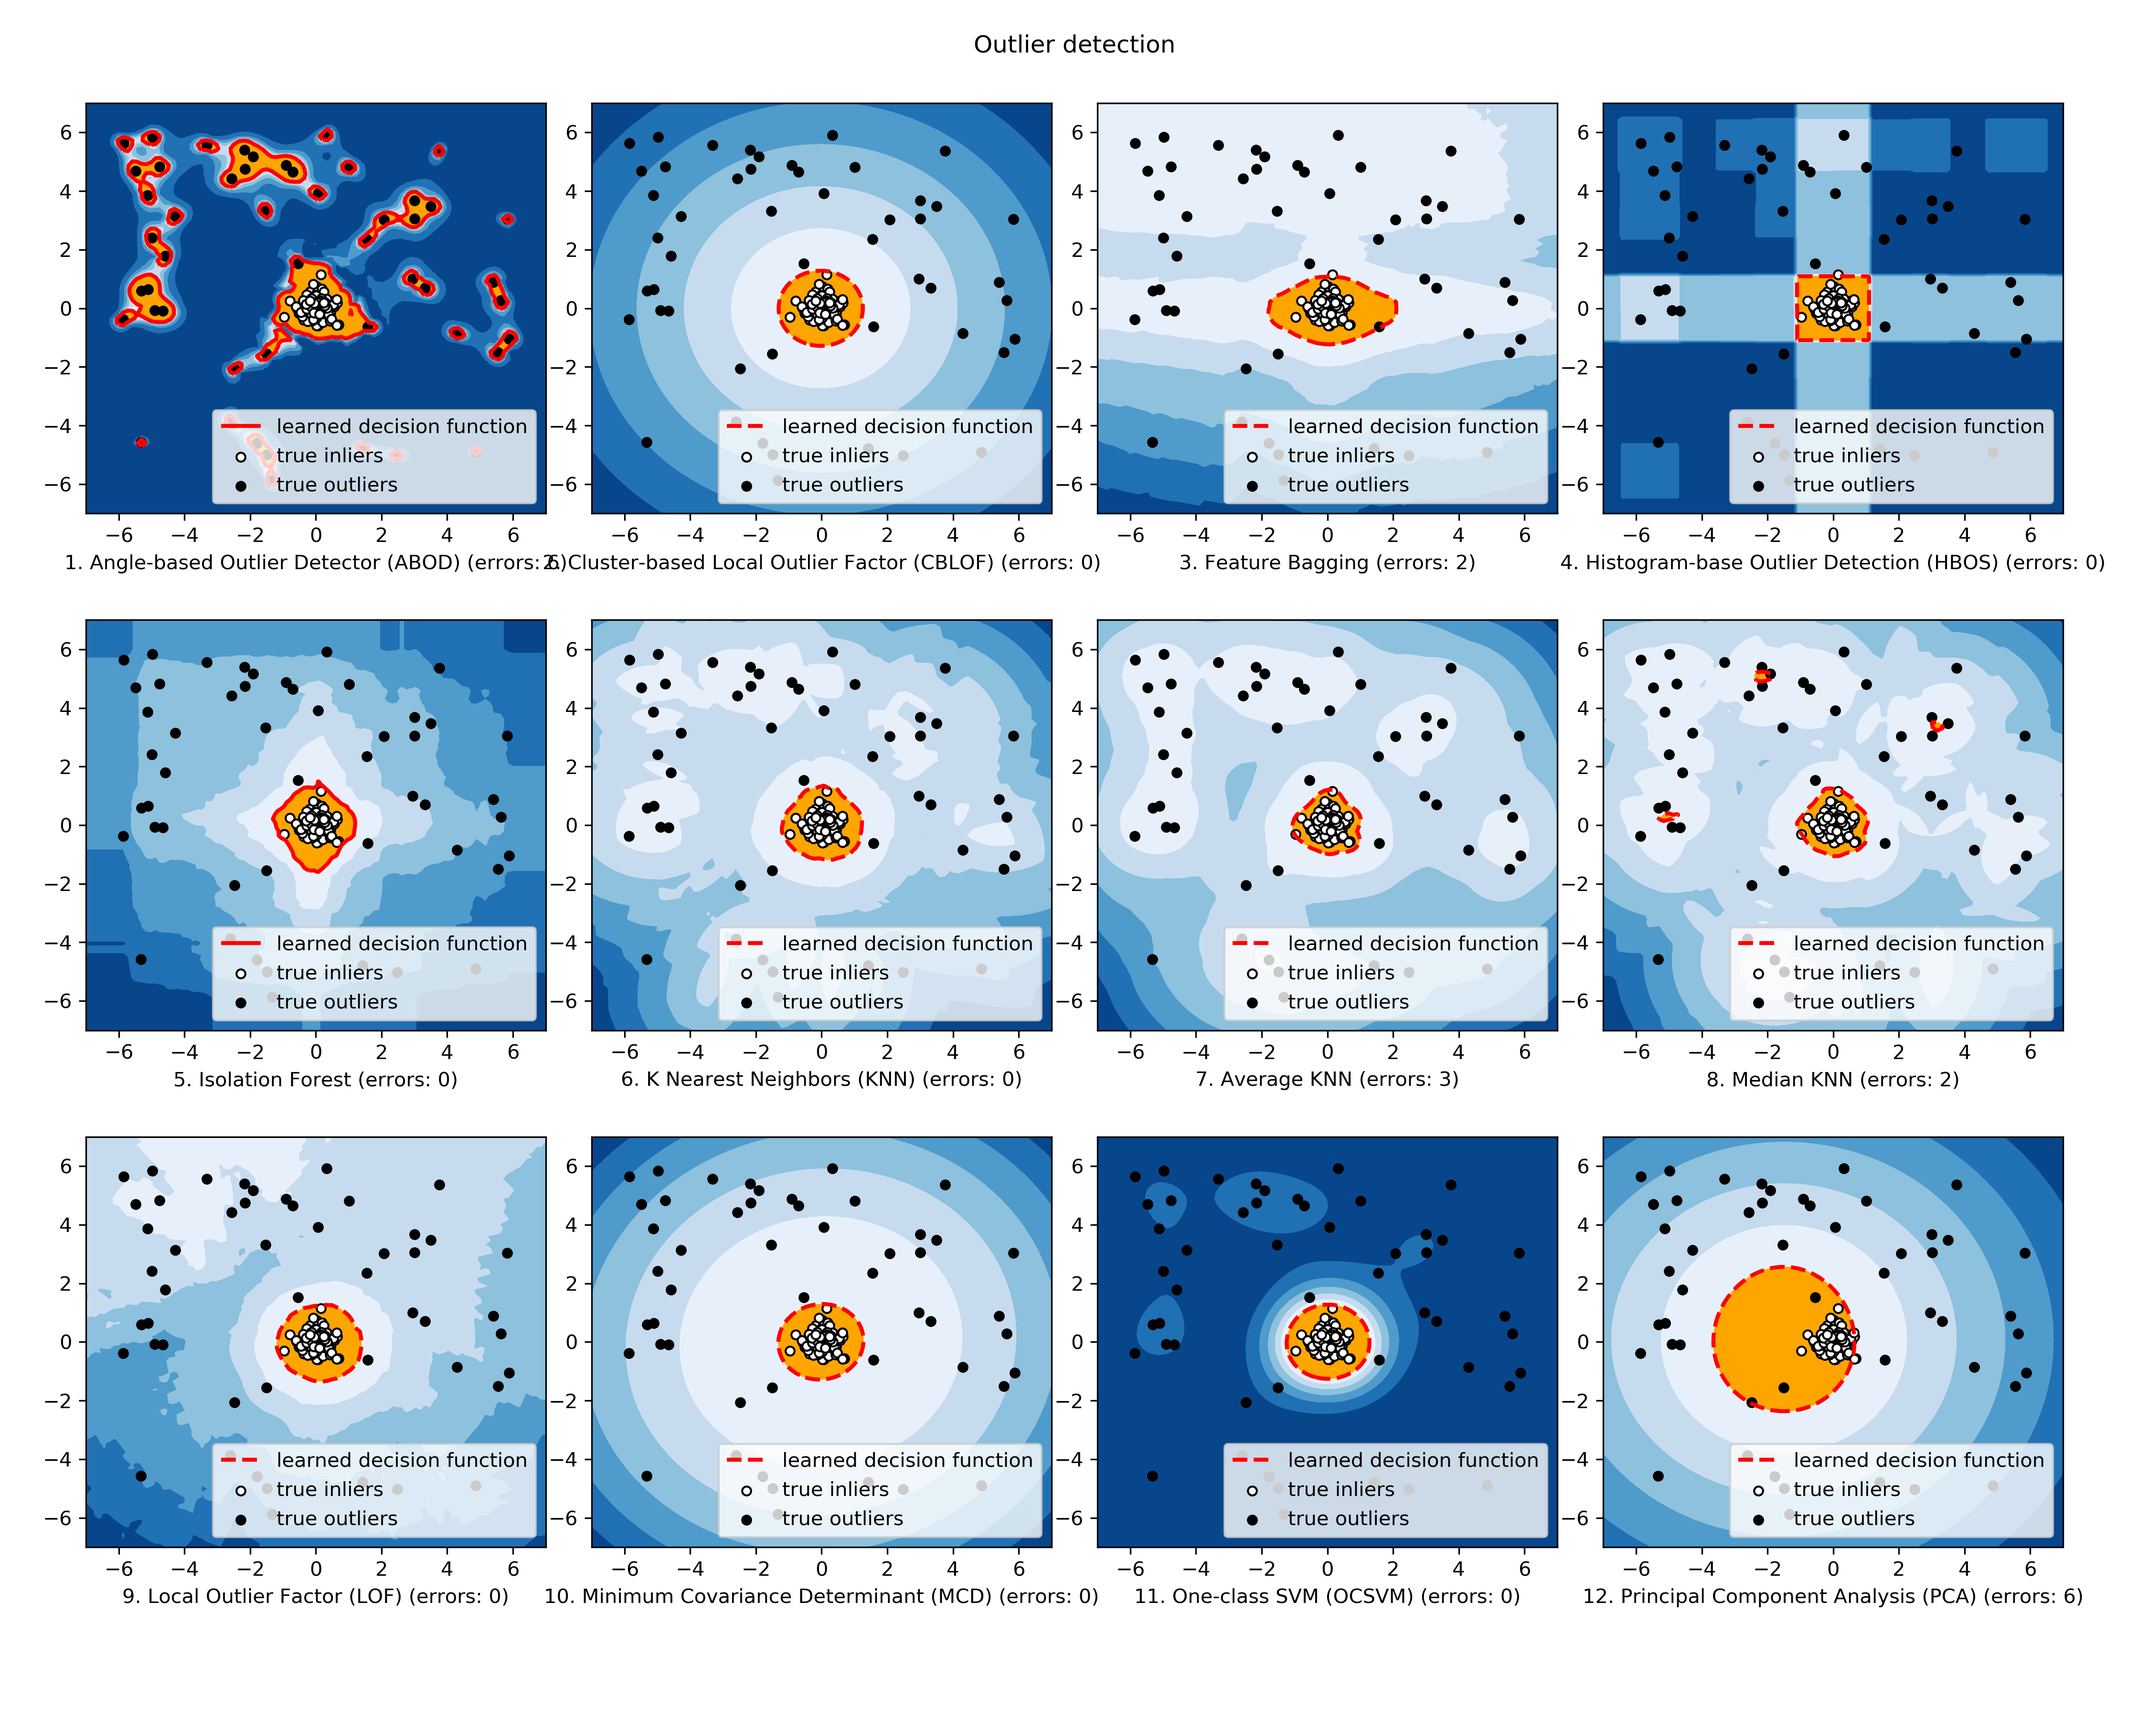
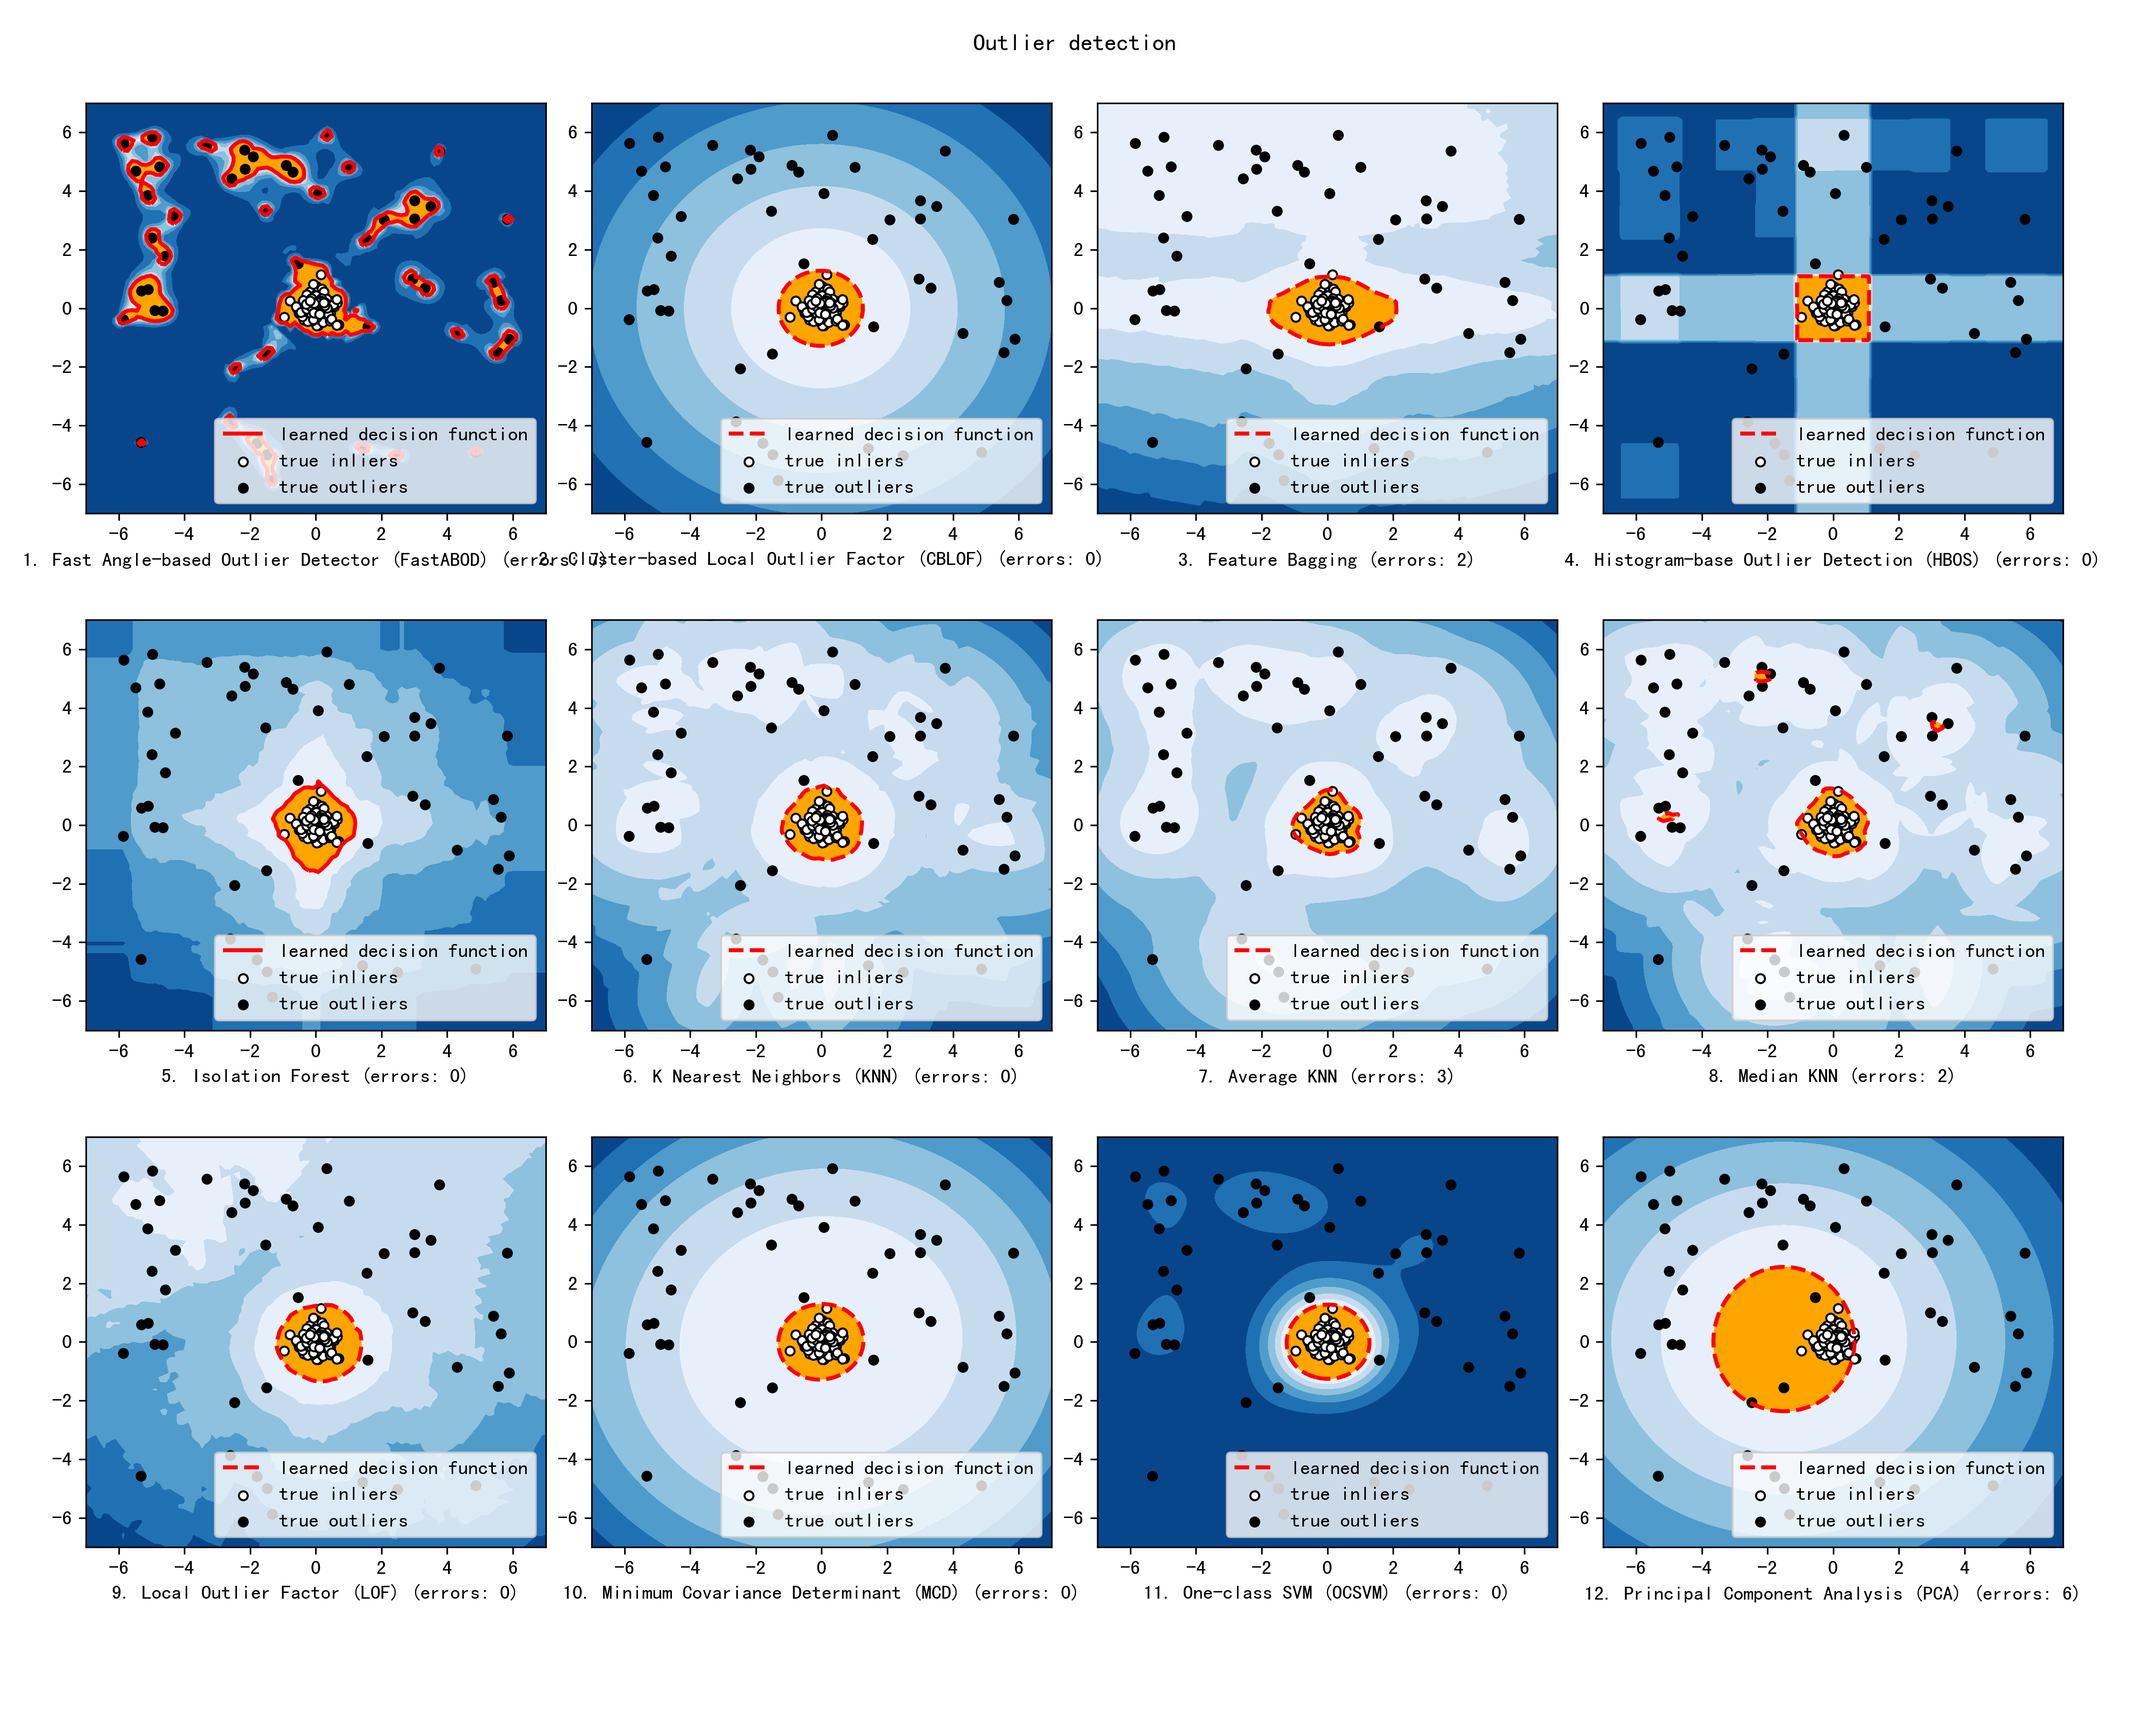
Update examples

diff --git a/examples/compare_all_models.py b/examples/compare_all_models.py
@@ -33,9 +33,13 @@ from pyod.models.hbos import HBOS
 from pyod.models.iforest import IForest
 from pyod.models.knn import KNN
 from pyod.models.lof import LOF
+from pyod.models.loci import LOCI
 from pyod.models.mcd import MCD
 from pyod.models.ocsvm import OCSVM
 from pyod.models.pca import PCA
+from pyod.models.sos import SOS
+
+# TODO: add neural networks, LOCI, SOS
 
 # Define the number of inliers and outliers
 n_samples = 200
@@ -56,13 +60,15 @@ print('Number of outliers: %i' % n_outliers)
 print(
     'Ground truth shape is {shape}. Outlier are 1 and inliers are 0.\n'.format(
         shape=ground_truth.shape))
-print(ground_truth)
+print(ground_truth, '\n')
 
 random_state = np.random.RandomState(42)
 # Define nine outlier detection tools to be compared
-classifiers = {'Angle-based Outlier Detector (ABOD)':
-                   ABOD(n_neighbors=10,
-                        contamination=outliers_fraction),
+classifiers = {
+                # 'Angle-based Outlier Detector (ABOD)':
+                #    ABOD(contamination=outliers_fraction),
+               'Fast Angle-based Outlier Detector (FastABOD)':
+                   ABOD(contamination=outliers_fraction),
                'Cluster-based Local Outlier Factor (CBLOF)':
                    CBLOF(contamination=outliers_fraction,
                          check_estimator=False, random_state=random_state),
@@ -83,12 +89,16 @@ classifiers = {'Angle-based Outlier Detector (ABOD)':
                                  contamination=outliers_fraction),
                'Local Outlier Factor (LOF)':
                    LOF(n_neighbors=35, contamination=outliers_fraction),
+               # 'Local Correlation Integral (LOCI)':
+               #     LOCI(contamination=outliers_fraction),
                'Minimum Covariance Determinant (MCD)': MCD(
                    contamination=outliers_fraction, random_state=random_state),
                'One-class SVM (OCSVM)': OCSVM(contamination=outliers_fraction,
                                               random_state=random_state),
                'Principal Component Analysis (PCA)': PCA(
                    contamination=outliers_fraction, random_state=random_state),
+               # 'Stochastic Outlier Selection (SOS)': SOS(
+               #     contamination=outliers_fraction),
                }
 
 # Show all detectors

diff --git a/notebooks/benchmark.py b/notebooks/benchmark.py
@@ -40,7 +40,8 @@ from pyod.utils.utility import standardizer
 from pyod.utils.utility import precision_n_scores
 from sklearn.metrics import roc_auc_score
 
-#TODO: add neural networks and update output precision (=4)
+# TODO: add neural networks, LOCI, SOS
+# TODO: and update output precision (=4)
 # Define data file and read X and y
 mat_file_list = ['arrhythmia.mat',
                  'cardio.mat',
